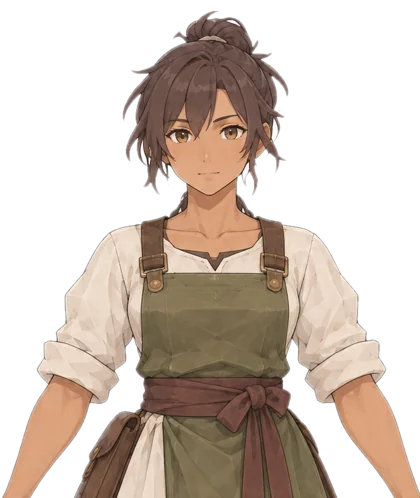
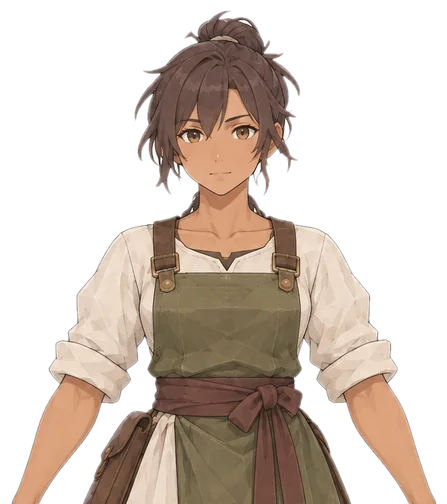
0.3: dot-style quest marks, refined talk prompt, cleaner portraits
- ?/! as 5x7 dot glyphs with a thin ink outline and a one-step bevel in the
  game palette (fixes the flipped, striped first attempt)
- Talk prompt: key cap, gold name, action, quest mark on a fading band
- Tip card uses the quest panel's fading gradient
- Portraits re-cut to the figure's full width; enclosed white background
  removed; a closed dialogue no longer leaves its portrait for the next speaker

Claude-Session: https://claude.ai/code/session_01VWm1t4NCURbVupMSeNdmXc

diff --git a/ArcherPreview/src/v03/v03.css b/ArcherPreview/src/v03/v03.css
@@ -88,7 +88,17 @@ html[data-loading] .v03-hud{display:none}
 .v03-quest.is-updated .v03-quest-objective{animation:v03-pulse .9s ease}
 @keyframes v03-pulse{0%{color:#fff4b8;transform:translateX(6px)}100%{color:inherit;transform:none}}
 .v03-hint{position:absolute;left:50%;bottom:clamp(96px,22vh,170px);transform:translateX(-50%);padding:8px 18px;font-size:clamp(14px,2.4vmin,18px);letter-spacing:.06em;white-space:nowrap;background:#0b0f0dcc;border:1px solid #cfb77b80;border-radius:4px;text-shadow:0 1px 4px #000}
-.v03-prompt{position:absolute;left:50%;bottom:clamp(150px,32vh,250px);transform:translateX(-50%);min-height:44px;padding:8px 20px;pointer-events:auto;font:inherit;font-size:clamp(14px,2.4vmin,18px);letter-spacing:.06em;color:#fff4d6;background:#18241ce6;border:1px solid var(--v03-gold);border-radius:4px;cursor:pointer;touch-action:manipulation}
+.v03-prompt{position:absolute;left:50%;bottom:clamp(150px,32vh,250px);display:flex;align-items:center;gap:12px;min-height:46px;padding:7px 34px 7px 12px;pointer-events:auto;font:inherit;color:#f4ead0;text-align:left;background:linear-gradient(90deg,#101a1400,#101a14d9 14%,#101a14d9 72%,#101a1400);border:0;border-radius:0;cursor:pointer;touch-action:manipulation;opacity:0;transform:translate(-50%,6px);transition:opacity .22s ease,transform .22s ease}
+.v03-prompt.is-in{opacity:1;transform:translate(-50%,0)}
+.v03-prompt::before,.v03-prompt::after{content:'';position:absolute;left:8%;right:8%;height:1px;background:linear-gradient(90deg,#cfb77b00,#cfb77bcc 30%,#cfb77bcc 70%,#cfb77b00)}
+.v03-prompt::before{top:0}.v03-prompt::after{bottom:0}
+.v03-prompt:hover .v03-prompt-key,.v03-prompt:focus-visible .v03-prompt-key{background:#cfb77b;color:#14100a}
+.v03-prompt-key{display:grid;place-items:center;flex:none;width:30px;height:30px;font-size:15px;font-weight:700;color:#f2dc9c;background:#1a140c;border:1px solid #cfb77b;border-radius:3px;box-shadow:inset 0 -3px 0 #0b080c,0 0 0 1px #0b080c;transition:background .15s ease,color .15s ease}
+.v03-prompt-text{display:flex;flex-direction:column;line-height:1.2}
+.v03-prompt-name{font-size:clamp(14px,2.3vmin,17px);letter-spacing:.06em;color:#f2dc9c;font-weight:700}
+.v03-prompt-action{font-size:clamp(12px,1.9vmin,14px);letter-spacing:.08em;color:#e8dfc8;opacity:.85}
+.v03-prompt-mark{position:absolute;right:12px;top:50%;margin-top:-9px;width:12px;height:18px;display:grid;place-items:center;font-size:14px;font-weight:700;color:#f2dc9c;text-shadow:1px 0 #0b080c,-1px 0 #0b080c,0 1px #0b080c,0 -1px #0b080c}
+.v03-prompt-mark[data-mark='!']{color:#bff0dc}
 .v03-banner{position:absolute;left:50%;top:clamp(70px,16vh,130px);transform:translateX(-50%);padding:10px 26px;font-size:clamp(15px,2.6vmin,20px);letter-spacing:.1em;white-space:nowrap;color:#fff4d6;background:linear-gradient(90deg,#0000,#0b0f0de6 18%,#0b0f0de6 82%,#0000);opacity:0}
 .v03-banner.is-shown{animation:v03-banner 3.6s ease forwards}
 @keyframes v03-banner{0%{opacity:0;transform:translate(-50%,8px)}12%,78%{opacity:1;transform:translate(-50%,0)}100%{opacity:0;transform:translate(-50%,-6px)}}
@@ -102,7 +112,7 @@ html[data-loading] .v03-hud{display:none}
 .v03-dialogue-next{position:absolute!important;right:14px;bottom:10px;min-height:36px;padding:4px 16px!important;font-size:14px!important;letter-spacing:.12em;color:var(--v03-gold)!important;border:1px solid #ae925970!important;border-radius:4px}
 .v03-dialogue-next:hover{background:#cfb77b22!important}
 
-.v03-tip{position:absolute;right:max(18px,env(safe-area-inset-right));top:clamp(150px,34vh,260px);width:min(300px,42vw);padding:12px 16px 13px;background:linear-gradient(180deg,#18241cf2,#101812f2);border:1px solid #ae925990;border-left:3px solid var(--v03-gold);border-radius:4px;box-shadow:0 10px 30px #0009;opacity:0}
+.v03-tip{position:absolute;right:max(18px,env(safe-area-inset-right));top:clamp(150px,34vh,260px);width:min(320px,42vw);padding:10px 26px 11px 14px;background:linear-gradient(90deg,#101a14e6,#101a1499 70%,#101a1400);border-left:2px solid var(--v03-gold);opacity:0}
 .v03-tip.is-shown{animation:v03-tip 7.5s ease forwards}
 @keyframes v03-tip{0%{opacity:0;transform:translateX(14px)}6%,90%{opacity:1;transform:none}100%{opacity:0;transform:translateX(8px)}}
 .v03-tip-title{display:block;font-size:clamp(14px,2.2vmin,16px);letter-spacing:.14em;color:var(--v03-gold)}
@@ -116,7 +126,7 @@ html[data-loading] .v03-hud{display:none}
 @media (pointer:coarse){
  .v03-hint{bottom:auto;top:max(58px,env(safe-area-inset-top));font-size:clamp(13px,3.6vmin,17px);white-space:normal;text-align:center;max-width:72vw}
  .v03-tip{top:calc(max(58px,env(safe-area-inset-top)) + 46px);right:auto;left:50%;margin-left:calc(min(280px,60vw)/-2);width:min(280px,60vw);padding:8px 12px 9px}
- .v03-prompt{bottom:clamp(120px,34vh,220px);min-height:48px;padding:10px 26px}
+ .v03-prompt{bottom:clamp(120px,34vh,220px);min-height:52px;padding:9px 38px 9px 18px}
  .v03-quest{top:clamp(64px,17vh,120px);max-width:46vw}
  .v03-dialogue-box{padding-bottom:54px}.v03-dialogue-next{min-height:44px}
 }

diff --git a/ArcherPreview/src/v03/quest-markers.js b/ArcherPreview/src/v03/quest-markers.js
@@ -2,18 +2,36 @@
 // small billboard per NPC: unlit, unpicked, no shadow. ? = a quest waits here,
 // ! = come back here, the work is done.
 import {DynamicTexture} from '@babylonjs/core/Materials/Textures/dynamicTexture.js';
+import {Texture} from '@babylonjs/core/Materials/Textures/texture.js';
 import {StandardMaterial} from '@babylonjs/core/Materials/standardMaterial.js';
 import {MeshBuilder} from '@babylonjs/core/Meshes/meshBuilder.js';
 import {Color3} from '@babylonjs/core/Maths/math.color.js';
 
-export const MARKER_COLORS=Object.freeze({'?':'#ffd54a','!':'#7dffb2'});
+// Dot-style glyphs in the game's palette: moon gold "?" (a quest waits) and
+// pale moon teal "!" (report back). Blocky 5×7 shapes drawn at 8 px per dot
+// with a thin ink outline (the cast's outline colour) and a one-step bevel:
+// light top edge, dark bottom edge. No per-row stripes.
+export const MARKER_COLORS=Object.freeze({'?':{fill:'#e6c97e',light:'#fbeab4',dark:'#a8833f'},'!':{fill:'#9fd9c4',light:'#d8f6ea',dark:'#5f9e8a'}});
+const OUTLINE='#0b080c',DOT=8,EDGE=2,PAD=3;
+const GLYPHS=Object.freeze({
+ '?':['.###.','#...#','....#','...#.','..#..','.....','..#..'],
+ '!':['..#..','..#..','..#..','..#..','..#..','.....','..#..'],
+});
+export const MARKER_TEXELS=Object.freeze({width:5*DOT+PAD*2,height:7*DOT+PAD*2});
 function glyphMaterial(scene,glyph){
- const size=128,texture=new DynamicTexture(`v03-marker-${glyph==='?'?'q':'x'}`,{width:size,height:size},scene,true),ctx=texture.getContext();
- ctx.clearRect(0,0,size,size);ctx.font='900 112px "Noto Sans KR","Malgun Gothic",sans-serif';ctx.textAlign='center';ctx.textBaseline='middle';
- ctx.lineJoin='round';ctx.lineWidth=14;ctx.strokeStyle='#1d1406';ctx.strokeText(glyph,size/2,size/2+6);
- ctx.fillStyle=MARKER_COLORS[glyph];ctx.fillText(glyph,size/2,size/2+6);
- texture.update(true);texture.hasAlpha=true;
- const material=new StandardMaterial(`v03-marker-${glyph==='?'?'q':'x'}`,scene);
+ const {width,height}=MARKER_TEXELS,name=`v03-marker-${glyph==='?'?'q':'x'}`,rows=GLYPHS[glyph],tone=MARKER_COLORS[glyph];
+ const texture=new DynamicTexture(name,{width,height},scene,true),ctx=texture.getContext();
+ const lit=(c,r)=>rows[r]?.[c]==='#',x=c=>PAD+c*DOT,y=r=>PAD+r*DOT;
+ ctx.clearRect(0,0,width,height);
+ ctx.fillStyle=OUTLINE;
+ for(let r=0;r<7;r++)for(let c=0;c<5;c++)if(lit(c,r))ctx.fillRect(x(c)-EDGE,y(r)-EDGE,DOT+EDGE*2,DOT+EDGE*2);
+ for(let r=0;r<7;r++)for(let c=0;c<5;c++)if(lit(c,r)){
+  ctx.fillStyle=tone.fill;ctx.fillRect(x(c),y(r),DOT,DOT);
+  if(!lit(c,r-1)){ctx.fillStyle=tone.light;ctx.fillRect(x(c),y(r),DOT,EDGE);}
+  if(!lit(c,r+1)){ctx.fillStyle=tone.dark;ctx.fillRect(x(c),y(r)+DOT-EDGE,DOT,EDGE);}
+ }
+ texture.update(true);texture.hasAlpha=true;texture.wrapU=texture.wrapV=Texture.CLAMP_ADDRESSMODE;
+ const material=new StandardMaterial(name,scene);
  material.disableLighting=true;material.diffuseTexture=texture;material.useAlphaFromDiffuseTexture=true;material.emissiveColor=Color3.White();
  material.specularColor=Color3.Black();material.backFaceCulling=false;material.fogEnabled=false;material.freeze();
  return material;
@@ -27,7 +45,7 @@ export function createQuestMarkers(scene){
    let mark=marks.get(id);
    if(!glyph){mark?.mesh.setEnabled(false);if(mark)mark.glyph=null;return;}
    if(!mark){
-    const mesh=MeshBuilder.CreatePlane(`v03-marker-${id}`,{size:.8},scene);
+    const mesh=MeshBuilder.CreatePlane(`v03-marker-${id}`,{width:.4,height:.4*MARKER_TEXELS.height/MARKER_TEXELS.width},scene);
     mesh.billboardMode=7;mesh.isPickable=false;mesh.doNotSyncBoundingInfo=true;mesh.alwaysSelectAsActiveMesh=true;mesh.renderingGroupId=1;
     mark={mesh,glyph:null,x,y,z};marks.set(id,mark);
    }
@@ -35,7 +53,8 @@ export function createQuestMarkers(scene){
    if(mark.glyph!==glyph){mark.glyph=glyph;mark.mesh.material=material(glyph);}
    mark.mesh.setEnabled(true);
   },
-  update(time){for(const [,mark] of marks)if(mark.glyph){const bob=Math.sin(time*2.4+mark.x)*.12;mark.mesh.position.set(mark.x,mark.y+bob,mark.z);mark.mesh.scaling.setAll(1+Math.sin(time*4.8)*.05);}},
+  // A stepped bob (whole pixels, a few frames per step) suits the pixel glyph.
+  update(time){for(const [,mark] of marks)if(mark.glyph){const bob=Math.round(Math.sin(time*2.4+mark.x)*3)*.03;mark.mesh.position.set(mark.x,mark.y+bob,mark.z);}},
   clear(){for(const [,mark] of marks)mark.mesh.dispose();marks.clear();},
   dispose(){this.clear();for(const glyph in materials){materials[glyph].diffuseTexture?.dispose();materials[glyph].dispose();}},
  };

diff --git a/ArcherPreview/tests/v03-shell.test.js b/ArcherPreview/tests/v03-shell.test.js
@@ -257,7 +257,7 @@ test('story: first fight coaching, driver talk, village cast, rest effect and sa
  assert.ok(h.guide.shown&&h.guide.shown.z>4&&h.guide.shown.z<12.2,JSON.stringify(h.guide.shown));
  {const d=h.shell.inspect().story.cast.find(c=>c.id==='driver');h.player.position={x:d.x,z:d.z};}h.battle.combatCount=2;h.shell.update(.016);assert.equal(hud('.v03-prompt').hidden,true);
  h.shell.defeat({kind:'wolf'});h.battle.encounters=[];h.battle.combatCount=0;h.battle.livingCount=0;h.shell.update(.016);
- assert.equal(hud('.v03-quest-objective').textContent,'마부와 이야기하기');assert.match(hud('.v03-prompt').textContent,/E · 마부와 이야기하기/);
+ assert.equal(hud('.v03-quest-objective').textContent,'마부와 이야기하기');assert.equal(hud('.v03-prompt').getAttribute('aria-label'),'마부와 이야기하기');assert.equal(hud('.v03-prompt-key').textContent,'E');assert.equal(hud('.v03-prompt-name').textContent,'마부');assert.equal(hud('.v03-prompt-action').textContent,'이야기하기');assert.equal(hud('.v03-prompt-mark').textContent,'!','the driver is a report: !');
  assert.equal(hud('.v03-tip-title').textContent,'강공격','the next tip waits its turn');
  const potionKey=[];h.window.addEventListener('keydown',()=>potionKey.push('game'));
  key('KeyE');await settle();assert.deepEqual(potionKey,[],'E near an NPC talks and never reaches the potion key');assert.equal(h.shell.blocksGame,true);
@@ -274,7 +274,7 @@ test('story: first fight coaching, driver talk, village cast, rest effect and sa
  assert.equal(hud('.v03-quest-title').textContent,'달빛 여관');assert.ok(h.log.includes('startWorld'),'the world wakes after the opening quest');assert.equal(h.made[0].disposed,true);assert.deepEqual(h.made.slice(1).map(v=>v.id),['innkeeper','elder','herbalist','chief','youth']);
  assert.deepEqual(h.marks.at(-1),[{x:-3.4,z:10.6,glyph:'?'}],'the innkeeper carries a ? on the minimap');
  assert.equal(h.save.meta().title,'달빛 여관');assert.match(hud('.v03-banner').textContent,/완료 · 늑대와 마차/);
- h.player.position={x:-3.4,z:10.6};h.shell.update(.016);assert.equal(hud('.v03-prompt').textContent,'E · 여관 주인과 이야기하기');assert.equal(h.document.documentElement.dataset.v03Cursor,'talk','the cursor offers a conversation');hud('.v03-prompt').dispatchEvent(new h.window.Event('click',{bubbles:true,cancelable:true}));await settle();
+ h.player.position={x:-3.4,z:10.6};h.shell.update(.016);assert.equal(hud('.v03-prompt').getAttribute('aria-label'),'여관 주인과 이야기하기');assert.equal(hud('.v03-prompt-mark').textContent,'?');assert.equal(h.document.documentElement.dataset.v03Cursor,'talk','the cursor offers a conversation');hud('.v03-prompt').dispatchEvent(new h.window.Event('click',{bubbles:true,cancelable:true}));await settle();
  for(let i=0;i<5;i++)key('Space');await settle();
  assert.ok(h.log.includes('rest'));assert.ok(h.shell.inspect().story.tips.includes('rest'));assert.equal(hud('.v03-quest-title').textContent,'사람들이 기억하는 성녀');assert.equal(hud('.v03-quest-objective').textContent,'주민 세 사람의 이야기 듣기 (0/3)');
  // A later document resumes the same quest step.

diff --git a/ArcherPreview/src/v03/play-hud.js b/ArcherPreview/src/v03/play-hud.js
@@ -7,7 +7,10 @@ export function createPlayHud({doc,mount=doc.body,onInteract=()=>{}}){
  const quest=make('section','v03-quest'),kicker=make('small','v03-quest-kicker'),title=make('strong','v03-quest-title'),objective=make('p','v03-quest-objective');
  kicker.textContent=t('hud.main');quest.append(kicker,title,objective);quest.hidden=true;
  const hint=make('div','v03-hint');hint.hidden=true;
+ // Interaction plate: key cap · name · action. The whole plate is the touch target.
  const prompt=make('button','v03-prompt');prompt.type='button';prompt.hidden=true;
+ const promptKey=make('span','v03-prompt-key'),promptMark=make('span','v03-prompt-mark'),promptName=make('strong','v03-prompt-name'),promptAction=make('span','v03-prompt-action');
+ const promptText=make('span','v03-prompt-text');promptText.append(promptName,promptAction);prompt.append(promptKey,promptText,promptMark);
  const banner=make('div','v03-banner');banner.hidden=true;
  // Cutscene subtitle: speaker + line, bottom centre.
  const caption=make('div','v03-caption'),captionWho=make('strong','v03-caption-who'),captionText=make('p','v03-caption-text');caption.append(captionWho,captionText);caption.hidden=true;
@@ -31,7 +34,15 @@ export function createPlayHud({doc,mount=doc.body,onInteract=()=>{}}){
    captionWho.textContent=value.who??'';captionWho.hidden=!value.who;captionText.textContent=value.text;caption.hidden=false;caption.classList.remove('is-in');void caption.offsetWidth;caption.classList.add('is-in');
   },
   setHint(text){if(last.hint===text)return;last.hint=text;hint.hidden=!text;hint.textContent=text??'';},
-  setPrompt(text){if(last.prompt===text)return;last.prompt=text;prompt.hidden=!text;prompt.textContent=text??'';},
+  // value: null | {key,name,action,label,mark:'?'|'!'|null}
+  setPrompt(value){
+   const id=value?`${value.key}|${value.name}|${value.action}|${value.mark}`:null;if(last.prompt===id)return;last.prompt=id;
+   if(!value){prompt.classList.remove('is-in');prompt.hidden=true;return;}
+   promptKey.textContent=value.key??'';promptKey.hidden=!value.key;promptName.textContent=value.name;promptAction.textContent=value.action;
+   promptMark.textContent=value.mark??'';promptMark.hidden=!value.mark;promptMark.dataset.mark=value.mark??'';
+   prompt.setAttribute('aria-label',value.label??`${value.name} ${value.action}`);
+   prompt.hidden=false;prompt.classList.remove('is-in');void prompt.offsetWidth;prompt.classList.add('is-in');
+  },
   // One-shot message (quest complete, saved). CSS runs the whole animation.
   flash(text){banner.textContent=text;banner.hidden=false;banner.classList.remove('is-shown');void banner.offsetWidth;banner.classList.add('is-shown');},
   // One-time tutorial card; pass null to hide it.

diff --git a/ArcherPreview/src/dot-minimap.js b/ArcherPreview/src/dot-minimap.js
@@ -50,7 +50,7 @@ async function bakeMap(canvas,mapId,navigation,current=()=>true){
 }
 // Quest glyphs as 3×5 pixel bitmaps (row-major, top to bottom).
 const GLYPHS=Object.freeze({'?':['111','001','011','000','010'],'!':['010','010','010','000','010'],'>':['100','110','111','110','100']});
-const GLYPH_COLORS=Object.freeze({'?':'#ffd54a','!':'#7dffb2','>':'#ffd54a'});
+const GLYPH_COLORS=Object.freeze({'?':'#f2dc9c','!':'#bff0dc','>':'#f2dc9c'});
 export class DotMinimap{
  constructor(element,{document=globalThis.document}={}){this.element=element;this.document=document;this.canvas=element?.querySelector('canvas');this.ctx=this.canvas?.getContext?.('2d');this.cache=new Map();this.cacheRevisions=new Map();this.next=0;this.last='';this.generation=0;this.markers=[];this.markerRevision=0;}
  // Story markers [{x,z,glyph:'?'|'!'|'>'}] drawn over the map; off-map ones stick to the edge.
@@ -79,8 +79,8 @@ export class DotMinimap{
    const bits=GLYPHS[mark.glyph];if(!bits)continue;
    const m=minimapPoint(rect,mark.x,mark.z,MINIMAP_SIZE,halfTurn),gx=Math.max(1,Math.min(MINIMAP_SIZE-8,Math.round(m.x)-3)),gy=Math.max(1,Math.min(MINIMAP_SIZE-12,Math.round(m.y)-11));
    // 2× pixels with a dark outline so the glyph reads on any terrain colour.
-   ctx.fillStyle='#1d1406';ctx.fillRect(gx-1,gy-1,8,12);
-   ctx.fillStyle=blink||mark.glyph==='>'?GLYPH_COLORS[mark.glyph]:'#fff6c8';
+   ctx.fillStyle='#0b080c';ctx.fillRect(gx-1,gy-1,8,12);
+   ctx.fillStyle=blink||mark.glyph==='>'?GLYPH_COLORS[mark.glyph]:'#fff8e6';
    for(let r=0;r<5;r++)for(let c=0;c<3;c++)if(bits[r][c]==='1')ctx.fillRect(gx+c*2,gy+r*2,2,2);
   }
  }

diff --git a/ArcherPreview/src/v03/story.js b/ArcherPreview/src/v03/story.js
@@ -376,7 +376,10 @@ export function createStory({api,doc,save,content,createVisual,createGuide=null,
     let best=null,bestSq=TALK_RANGE_SQ;
     for(const member of cast){const dx=member.x-player.x,dz=member.z-player.z,sq=dx*dx+dz*dz;if(sq<bestSq){best=member;bestSq=sq;}}
     near=api.battle.combatCount>0?null:best;
-    hud.setPrompt(near?`${touch?'':'E · '}${t(log.isTarget(near.npc.id)?'prompt.talkQuest':'prompt.talkIdle',{name:speaker(near.npc.name)})}`:null);
+    if(near){
+     const quest=log.isTarget(near.npc.id),name=speaker(near.npc.name);
+     hud.setPrompt({key:touch?null:'E',name,action:t(quest?'prompt.actionQuest':'prompt.actionIdle'),mark:markFor(near.npc.id),label:t(quest?'prompt.talkQuest':'prompt.talkIdle',{name})});
+    }else hud.setPrompt(null);
    }
    coach(dt);contextTips();runTips(dt);stageFight(player);updateGuide(dt,player);updateMarkers();
   },

diff --git a/ArcherPreview/src/v03/locales/vi.js b/ArcherPreview/src/v03/locales/vi.js
@@ -23,6 +23,7 @@ export default {
   'opening.4':'“Hãy tìm đứa trẻ đó.”',
   'scene.protect':'Bảo vệ người đánh xe',
   'hud.main':'Chính','hud.chapterNext':'Câu chuyện còn tiếp','hud.complete':'Hoàn thành · {done}','hud.completeNext':'Hoàn thành · {done}  →  {next}','hud.rested':'Đã nghỉ ngơi · Đã ghi lại hành trình',
+  'prompt.actionQuest':'Nói chuyện','prompt.actionIdle':'Bắt chuyện',
   'prompt.talkQuest':'Nói chuyện với {name}','prompt.talkIdle':'Bắt chuyện với {name}',
  },
  story:{

diff --git a/ArcherPreview/src/v03/dialogue.js b/ArcherPreview/src/v03/dialogue.js
@@ -22,7 +22,7 @@ export function createDialogue({doc,mount=doc.body,portraitFor=()=>null}){
  function step(){
   if(!lines)return;
   if(++index<lines.length){show();return;}
-  const done=finish,played=lines;lines=null;finish=null;layer.hidden=true;shownArt=null;done?.(played);
+  const done=finish,played=lines;lines=null;finish=null;layer.hidden=true;shownArt=null;portrait.hidden=true;portrait.classList.remove('is-in');done?.(played);
  }
  next.addEventListener('click',step);
  layer.addEventListener('click',event=>{if(event.target===layer)step();});

diff --git a/ArcherPreview/src/v03/locales/ko.js b/ArcherPreview/src/v03/locales/ko.js
@@ -25,6 +25,7 @@ export default {
   'opening.4':'“그 아이를 찾아라.”',
   'scene.protect':'마부를 지켜라',
   'hud.main':'메인','hud.chapterNext':'이야기의 다음 장','hud.complete':'완료 · {done}','hud.completeNext':'완료 · {done}  →  {next}','hud.rested':'쉬었습니다 · 여정을 기록했습니다',
+  'prompt.actionQuest':'이야기하기','prompt.actionIdle':'말 걸기',
   'prompt.talkQuest':({name})=>particle(name,'과','와')+' 이야기하기',
   'prompt.talkIdle':({name})=>name+'에게 말 걸기',
  },

diff --git a/ArcherPreview/src/v03/locales/ja.js b/ArcherPreview/src/v03/locales/ja.js
@@ -23,6 +23,7 @@ export default {
   'opening.4':'「あの子を探せ」',
   'scene.protect':'御者を守れ',
   'hud.main':'メイン','hud.chapterNext':'物語の続き','hud.complete':'完了 · {done}','hud.completeNext':'完了 · {done}  →  {next}','hud.rested':'休みました · 旅を記録しました',
+  'prompt.actionQuest':'話す','prompt.actionIdle':'話しかける',
   'prompt.talkQuest':'{name}と話す','prompt.talkIdle':'{name}に話しかける',
  },
  story:{

diff --git a/ArcherPreview/src/v03/locales/zh.js b/ArcherPreview/src/v03/locales/zh.js
@@ -23,6 +23,7 @@ export default {
   'opening.4':'“去找那个孩子。”',
   'scene.protect':'保护车夫',
   'hud.main':'主线','hud.chapterNext':'故事未完待续','hud.complete':'完成 · {done}','hud.completeNext':'完成 · {done}  →  {next}','hud.rested':'已休息 · 旅程已记录',
+  'prompt.actionQuest':'交谈','prompt.actionIdle':'搭话',
   'prompt.talkQuest':'与{name}交谈','prompt.talkIdle':'向{name}搭话',
  },
  story:{

diff --git a/ArcherPreview/src/v03/locales/en.js b/ArcherPreview/src/v03/locales/en.js
@@ -23,6 +23,7 @@ export default {
   'opening.4':'“Find that child.”',
   'scene.protect':'Protect the driver',
   'hud.main':'Main','hud.chapterNext':'The story continues','hud.complete':'Complete · {done}','hud.completeNext':'Complete · {done}  →  {next}','hud.rested':'Rested · Journey recorded',
+  'prompt.actionQuest':'Talk','prompt.actionIdle':'Chat',
   'prompt.talkQuest':'Talk to {name}','prompt.talkIdle':'Speak to {name}',
  },
  story:{
